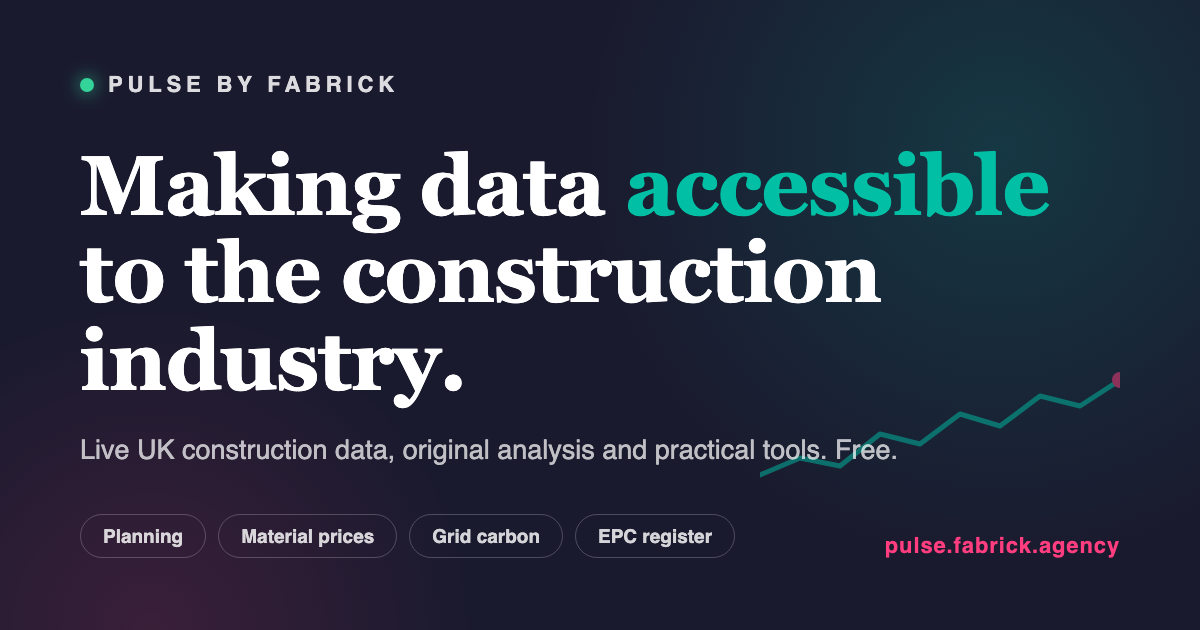
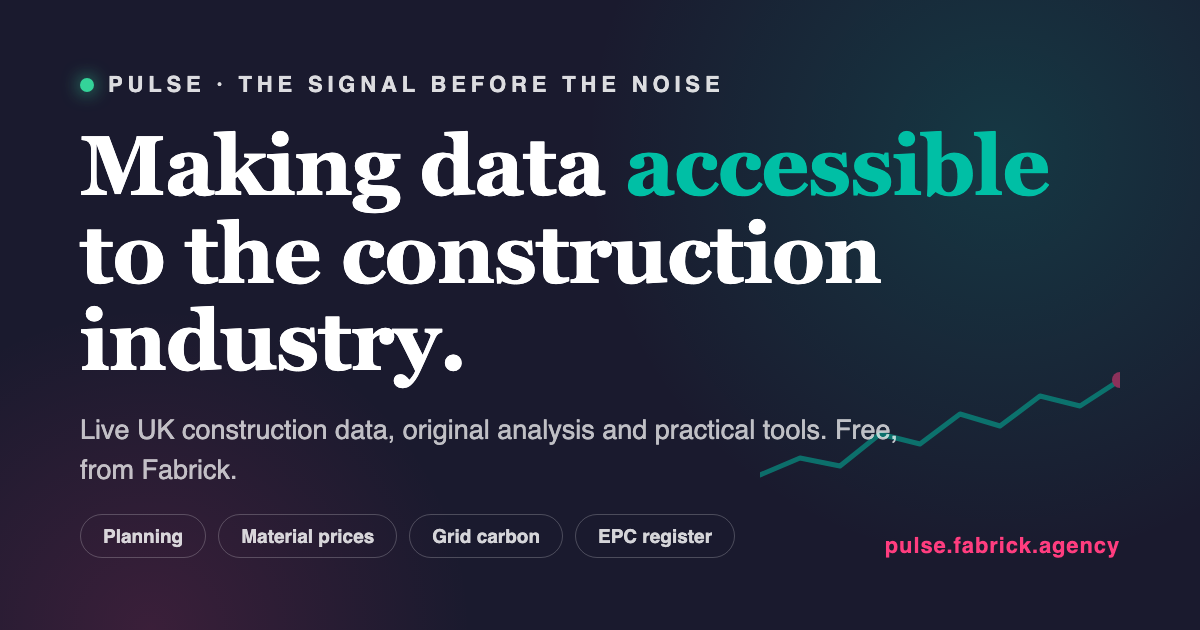
Rebrand chrome to Pulse + strapline: the signal before the noise
Navbar wordmark (Pulse over the strapline, Fabrick logo out of the nav),
footer and hero eyebrow lines, site title/description, og:site_name,
WebSite JSON-LD name (Pulse by Fabrick kept as alternateName), showcase
hero, llms.txt heading and regenerated og-image. Fabrick attribution stays
in the footer agency block, descriptions and page-title suffixes.

Changed region(s): [[0.0617, 0.2111, 0.8942, 0.7841], [0.185, 0.1206, 0.6167, 0.1508], [0.37, 0.2111, 0.4008, 0.2413]]

diff --git a/src/app/layout.tsx b/src/app/layout.tsx
@@ -16,9 +16,9 @@ const playfair = Playfair_Display({
   style: ["normal", "italic"],
 });
 
-const SITE_TITLE = "Pulse by Fabrick | Free UK Construction Data Platform";
+const SITE_TITLE = "Pulse: The Signal Before the Noise | Free UK Construction Data";
 const SITE_DESCRIPTION =
-  "Making data accessible to the construction industry. Live UK construction data and statistics: planning applications, material prices, grid carbon intensity, ONS construction output and the EPC register, plus a free embodied carbon calculator and the UK regulations timeline.";
+  "Pulse is the signal before the noise: making data accessible to the construction industry. Live UK construction data and statistics: planning applications, material prices, grid carbon intensity, ONS construction output and the EPC register, plus a free embodied carbon calculator and the UK regulations timeline.";
 
 export const metadata: Metadata = {
   metadataBase: new URL("https://pulse.fabrick.agency"),
@@ -49,7 +49,7 @@ export const metadata: Metadata = {
     title: SITE_TITLE,
     description: SITE_DESCRIPTION,
     url: "https://pulse.fabrick.agency",
-    siteName: "Pulse by Fabrick",
+    siteName: "Pulse",
     type: "website",
     locale: "en_GB",
     images: [
@@ -57,7 +57,7 @@ export const metadata: Metadata = {
         url: "/og-image.png",
         width: 1200,
         height: 630,
-        alt: "Pulse by Fabrick - live UK built environment data",
+        alt: "Pulse - the signal before the noise. Live UK built environment data.",
       },
     ],
   },
@@ -86,7 +86,8 @@ const STRUCTURED_DATA = {
     {
       "@type": "WebSite",
       "@id": "https://pulse.fabrick.agency/#website",
-      name: "Pulse by Fabrick",
+      name: "Pulse",
+      alternateName: ["Pulse by Fabrick", "The signal before the noise"],
       url: "https://pulse.fabrick.agency",
       description: SITE_DESCRIPTION,
       publisher: { "@id": "https://www.fabrick.agency/#organization" },

diff --git a/src/components/layout/Navbar.tsx b/src/components/layout/Navbar.tsx
@@ -21,7 +21,6 @@ import {
   Telescope,
   CircleUserRound,
 } from "lucide-react";
-import { FabrickLogo } from "./FabrickLogo";
 import { useAccount } from "@/lib/useAccount";
 
 const dashboardItems = [
@@ -331,11 +330,13 @@ export function Navbar() {
       <nav className="sticky top-0 z-50 bg-navy text-white">
         <div className="mx-auto max-w-7xl px-4 sm:px-6 lg:px-8">
           <div className="flex h-16 items-center justify-between">
-            {/* Logo */}
-            <Link href="/" className="flex items-center gap-3">
-              <FabrickLogo fill="#ffffff" height={30} />
-              <span className="hidden text-xs font-medium text-warm-gray sm:block">
+            {/* Brand: Pulse wordmark + strapline */}
+            <Link href="/" className="flex flex-col justify-center leading-none">
+              <span className="font-[family-name:var(--font-playfair)] text-[26px] font-bold tracking-tight text-white">
                 Pulse
+              </span>
+              <span className="hidden sm:block mt-1 text-[8.5px] font-semibold uppercase tracking-[0.22em] text-warm-gray">
+                The signal before the noise
               </span>
             </Link>
 

diff --git a/src/app/showcase/page.tsx b/src/app/showcase/page.tsx
@@ -26,9 +26,9 @@ import {
 // ---------------------------------------------------------------------------
 
 export const metadata: Metadata = {
-  title: "Pulse by Fabrick - what's inside",
+  title: "Pulse - what's inside",
   description:
-    "A tour of Pulse by Fabrick: live dashboards, the embodied carbon calculator, the UK regulations timeline, the knowledge hub, original research and the Planning Explorer.",
+    "A tour of Pulse, the signal before the noise: live dashboards, the embodied carbon calculator, the UK regulations timeline, the knowledge hub, original research and the Planning Explorer.",
 };
 
 const TOOLS = [
@@ -95,7 +95,7 @@ export default function ShowcasePage() {
       <section className="bg-charcoal text-white py-20 md:py-28">
         <div className="mx-auto max-w-5xl px-4 sm:px-6 lg:px-8 text-center">
           <p className="text-[11px] font-semibold uppercase tracking-[0.18em] text-pink mb-4">
-            Pulse by Fabrick
+            Pulse - the signal before the noise
           </p>
           {/* TODO(copy): Colin to confirm headline. Tom's steer: "answering
               important questions in construction, using data." */}

diff --git a/src/app/page.tsx b/src/app/page.tsx
@@ -208,7 +208,7 @@ export default function HomePage() {
         <div className="relative z-10 mx-auto max-w-7xl px-4 sm:px-6 lg:px-8 pt-24 pb-24 md:pt-32 md:pb-28">
           <div className="max-w-3xl">
             <p className="mb-4 text-[11px] font-semibold uppercase tracking-[0.18em] text-white/70 animate-fade-in-delay-1">
-              Pulse by Fabrick - live UK built environment data and tools
+              Pulse - the signal before the noise
             </p>
 
             <h1 className="font-[family-name:var(--font-playfair)] text-5xl sm:text-6xl md:text-7xl font-bold text-white leading-[0.98] tracking-tight animate-fade-in-delay-1 [text-shadow:0_2px_24px_rgba(0,0,0,0.4)]">

diff --git a/src/components/layout/Footer.tsx b/src/components/layout/Footer.tsx
@@ -52,7 +52,7 @@ export function Footer() {
             <div className="flex items-center gap-3 mb-5">
               <FabrickLogo fill="#ffffff" height={28} />
               <span className="text-xs font-medium uppercase tracking-[0.16em] text-warm-gray">
-                Pulse — UK Built Environment Data
+                Pulse - the signal before the noise
               </span>
             </div>
             <p className="font-[family-name:var(--font-playfair)] text-2xl md:text-3xl font-bold leading-snug max-w-xl">
